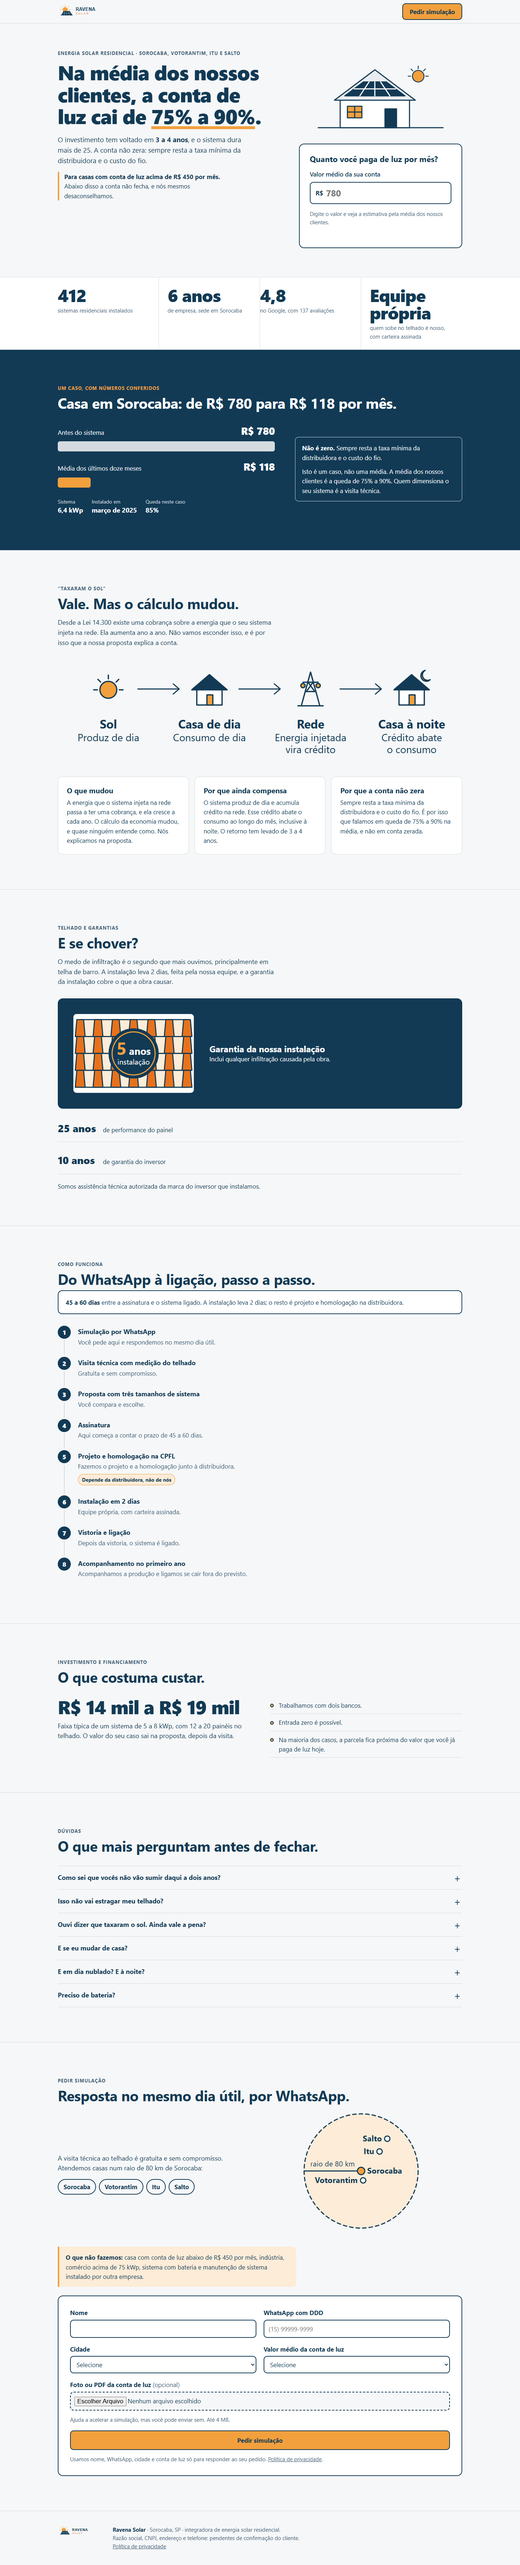
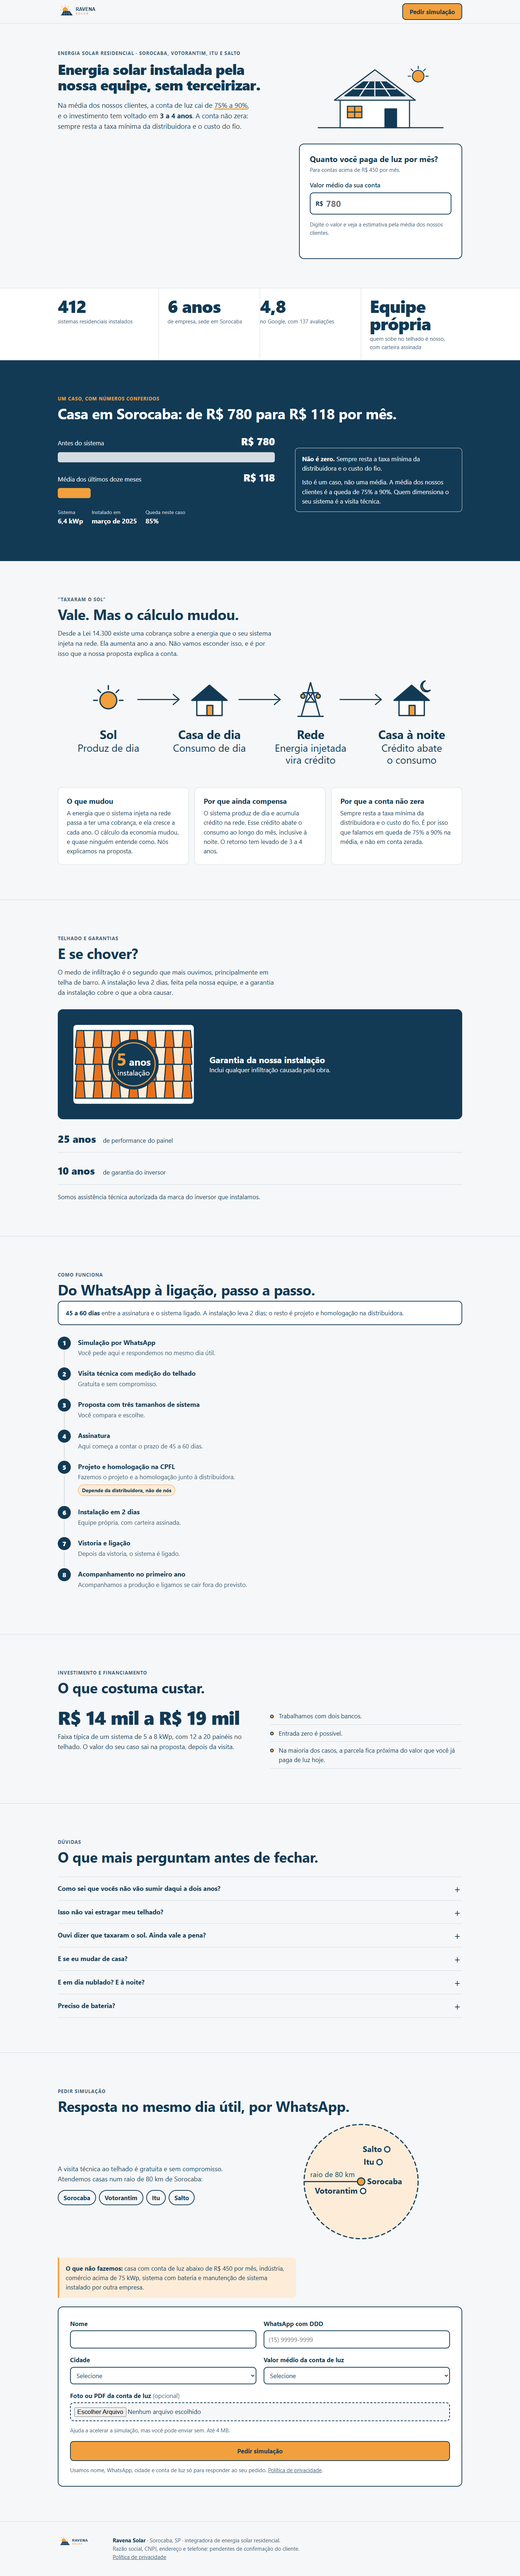
Hero: título com o diferencial (equipe própria) e promessa qualificada no subtítulo
- h1 passa a dizer "Energia solar instalada pela nossa equipe, sem terceirizar."
- p.sub traz a queda de 75% a 90% "na média dos nossos clientes" e o retorno de 3 a 4 anos
- corte de R$ 450 vai para dentro do simulador
- h1 reduzido (clamp, máx. 2,5 rem) para caber em 2 linhas em 1440 px
- SPEC §11 atualizada; capturas antes/depois em verificacao/capturas

diff --git a/src/index.html b/src/index.html
@@ -55,9 +55,8 @@
     <div class="cx hero-grade">
       <div>
         <p class="rotulo">Energia solar residencial · Sorocaba, Votorantim, Itu e Salto</p>
-        <h1 id="titulo-hero">Na média dos nossos clientes, a conta de luz cai de <span class="destaque num">75% a 90%</span>.</h1>
-        <p class="sub">O investimento tem voltado em <strong class="num">3 a 4 anos</strong>, e o sistema dura mais de <span class="num">25</span>. A conta não zera: sempre resta a taxa mínima da distribuidora e o custo do fio.</p>
-        <p class="corte"><strong>Para casas com conta de luz acima de <span class="num">R$&nbsp;450</span> por mês.</strong> Abaixo disso a conta não fecha, e nós mesmos desaconselhamos.</p>
+        <h1 id="titulo-hero">Energia solar instalada pela nossa equipe, sem terceirizar.</h1>
+        <p class="sub">Na média dos nossos clientes, a conta de luz cai de <span class="destaque num">75% a 90%</span>, e o investimento tem voltado em <strong class="num">3 a 4 anos</strong>. A conta não zera: sempre resta a taxa mínima da distribuidora e o custo do fio.</p>
       </div>
 
       <div class="hero-lado">
@@ -74,6 +73,7 @@
       </svg>
       <div class="sim" id="simulador">
         <h2>Quanto você paga de luz por mês?</h2>
+        <p class="corte">Para contas acima de <span class="num">R$&nbsp;450</span> por mês.</p>
         <label for="sim-valor">Valor médio da sua conta</label>
         <div class="sim-campo">
           <span aria-hidden="true">R$</span>

diff --git a/src/estilos.css b/src/estilos.css
@@ -78,15 +78,15 @@ h3 { font-size: 1.25rem; line-height: 1.25; font-weight: 700; }
 .hero { padding: clamp(32px, 6vw, 72px) 0 clamp(40px, 7vw, 80px); }
 .hero-grade { display: grid; grid-template-columns: minmax(0, 1fr); gap: 32px; align-items: start; }
 .hero h1 {
-  font-size: clamp(2.125rem, 6.4vw, 3.5rem); line-height: 1.08; font-weight: 800;
+  font-size: clamp(2.125rem, 6.4vw, 2.5rem); line-height: 1.08; font-weight: 800;
   letter-spacing: -.02em; margin-top: 12px; text-wrap: balance;
 }
 .hero .sub { margin-top: 20px; font-size: 1.1875rem; max-width: 52ch; }
-.hero .corte { margin-top: 16px; padding-left: 14px; border-left: 4px solid var(--ambar); max-width: 52ch; }
 
 /* ---------- Simulador ---------- */
 .sim { background: var(--branco); border: 2px solid var(--azul); border-radius: 14px; padding: 20px; }
 .sim h2 { font-size: 1.375rem; margin: 0; letter-spacing: 0; }
+.sim .corte { margin-top: 6px; font-size: .9375rem; color: var(--suave); }
 .sim label { display: block; margin-top: 16px; font-weight: 600; }
 .sim-campo { display: flex; align-items: center; margin-top: 8px; border: 2px solid var(--azul); border-radius: 10px; background: var(--branco); }
 .sim-campo span { padding-left: 14px; font-weight: 700; }

diff --git a/SPEC.md b/SPEC.md
@@ -116,6 +116,7 @@ Decisões tomadas ao construir, e o porquê.
 - **"85%" no caso real:** derivado de 1 − 118/780, rotulado como "neste caso" e acompanhado de "é um caso, não uma média".
 - **Ilustrações próprias (hero, telha com selo, esquema da Lei 14.300, mapa de atendimento):** sem fotos, o visual sai do logo (sol de 5 raios, trapézio com grade); SVG inline, só tokens de cor, sem animação, sem texto além do que o brief diz. Detalhe em DESIGN.md.
 - **Política de privacidade:** guarda de 12 meses é proposta minha, a confirmar (ver `FALTA.md`).
+- **Hero com o diferencial no título:** o `<h1>` passou a trazer a equipe própria (instalação sem terceirizar), a resposta ao medo número um do brief, porque o título começava pela ressalva e soava como letra miúda. A promessa qualificada ("na média dos nossos clientes", 75% a 90%) foi para o subtítulo, na mesma frase do retorno de 3 a 4 anos. O corte de R$ 450 foi para dentro do simulador, onde o valor é digitado; o simulador segue no hero, como manda a §3, e o aviso abaixo de R$ 450 continua sendo o do `app.js`.
 
 ### Bugs que a verificação pegou
 
